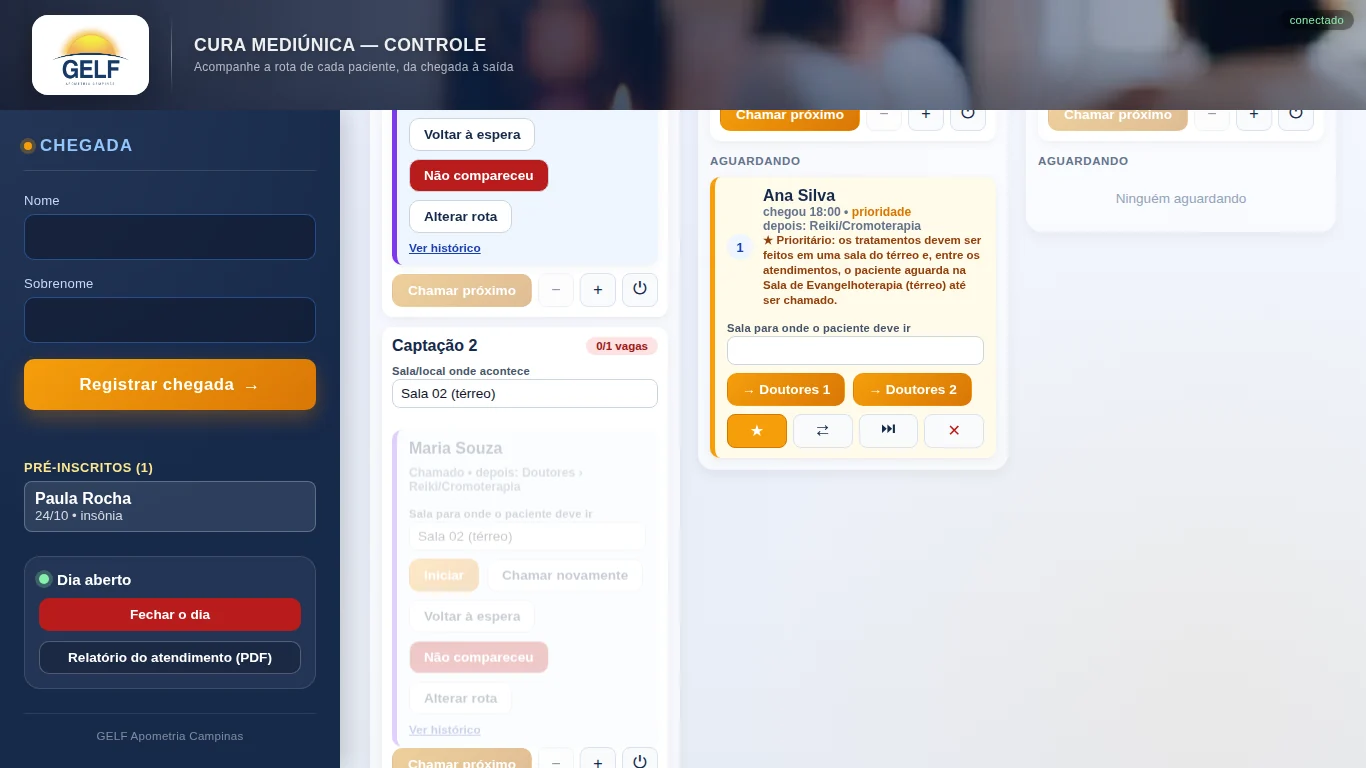
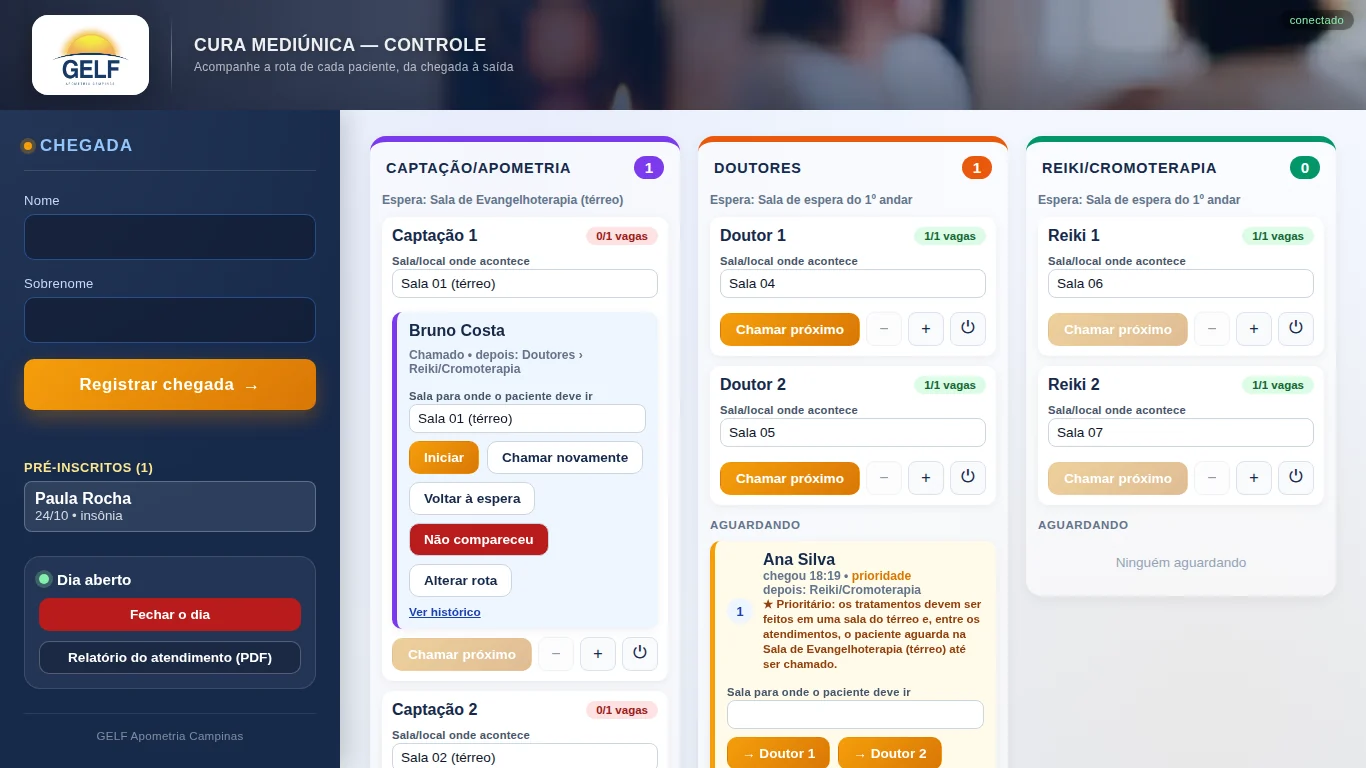
Bio: salas dos Doutores passam a se chamar Doutor 1 e Doutor 2 (singular)
- config/bio.json, documentação, roteiro de validação e capturas atualizados

diff --git a/docs/pacote/2-Roteiro-de-validacao.md b/docs/pacote/2-Roteiro-de-validacao.md
@@ -33,7 +33,7 @@ Cada linha segue um passo do processo oficial.
 | 9 | **Controle:** toque em **Iniciar** | A TV muda para **Em atendimento** (sem som) | | |
 | 10 | **Controle:** toque em **Concluir etapa** | A TV diz *Etapa concluída — aguarde: Sala de espera do 1º andar*. A vaga da sala volta na hora | | |
 | 11 | **Controle:** chame outro paciente para a **Captação 2** e confira que **cada etapa tem duas salas**, atendendo 2 pacientes ao mesmo tempo | Captação 1 e 2 funcionam ao mesmo tempo; o mesmo vale para Doutores e Reiki | | |
-| 12 | **Controle:** na coluna **Doutores**, chame o paciente (**Chamar próximo** em *Doutores 1* ou *Doutores 2*, ou **→ Doutores 1** no cartão para escolher quem entra) | A TV chama para *Doutores 1* (ou *Doutores 2*) | | |
+| 12 | **Controle:** na coluna **Doutores**, chame o paciente (**Chamar próximo** em *Doutor 1* ou *Doutor 2*, ou **→ Doutor 1** no cartão para escolher quem entra) | A TV chama para *Doutor 1* (ou *Doutor 2*) | | |
 | 13 | **Controle:** toque em **Iniciar**, depois em **Prontuário recebido** | O cartão mostra *📋 Prontuário com o paciente* | | |
 | 14 | **Controle:** toque em **Concluir etapa** (a acupuntura, quando indicada, é feita **dentro** do atendimento dos Doutores; não há etapa separada) | O paciente vai direto para a espera do **Reiki/Cromoterapia**; a TV orienta o 1º andar | | |
 | 15 | **Controle:** chame para o **Reiki/Cromoterapia** e toque em **Iniciar** | O cartão lembra que o paciente deve entregar o prontuário; o botão de concluir vira **Concluir e guardar prontuário** | | |
@@ -74,7 +74,7 @@ Cada linha segue um passo do processo oficial.
 
 Responda com o que vê no dia a dia. Pode escrever à vontade.
 
-1. **Etapas e nomes:** os nomes *Captação/Apometria*, *Doutores* e *Reiki/Cromoterapia* estão como vocês falam? As salas (Captação 1 e 2, Doutores 1 e 2, Reiki 1 e 2) estão com os nomes certos?
+1. **Etapas e nomes:** os nomes *Captação/Apometria*, *Doutores* e *Reiki/Cromoterapia* estão como vocês falam? As salas (Captação 1 e 2, Doutor 1 e 2, Reiki 1 e 2) estão com os nomes certos?
 2. **Atendimentos simultâneos:** duas salas por etapa, cada uma com 1 paciente, está certo? Algum dia precisa de mais ou de menos? (O **+** e o **−** de cada sala ajustam na hora.)
 3. **Prontuário:** os doutores pedem prontuário em **todos** os casos ou só às vezes? O botão **Prontuário recebido** deveria ser obrigatório?
 4. **Acupuntura:** hoje ela é feita dentro do atendimento dos Doutores, sem etapa nem sala próprias. Precisa ser registrada de algum modo (por exemplo, uma marca no cartão e no relatório)?
@@ -84,7 +84,7 @@ Responda com o que vê no dia a dia. Pode escrever à vontade.
 8. **Quem faz o quê:** a recepção só cadastra, e o controle chama e conclui. Está de acordo? Quem opera o controle, e em qual aparelho (computador, tablet, celular)?
 9. **Prioridade:** quem decide e quando marcar? A prioridade deve valer em todas as etapas, como está? Deve aparecer na TV?
 10. **O que está faltando:** o que você faz no dia que o sistema ainda não permite? O que sobrou ou atrapalha?
-11. **Locais das salas:** informar o sala/local de cada tratamento na abertura do dia, com a possibilidade de mudar depois, atende? O nome da sala chamada (Doutores 1…) ainda precisa aparecer na TV junto com o local?
+11. **Locais das salas:** informar o sala/local de cada tratamento na abertura do dia, com a possibilidade de mudar depois, atende? O nome da sala chamada (Doutor 1…) ainda precisa aparecer na TV junto com o local?
 12. **Relatório do atendimento (PDF):** traz o que vocês precisam (dados dos pacientes, horários de início e fim, resumo geral)? Falta alguma coluna ou número? Quem guarda o PDF e onde?
 
 ## Como enviar seus comentários

diff --git a/README.md b/README.md
@@ -87,7 +87,7 @@ Fluxo oficial do processo: `docs/fluxos/fluxo-operacional-bio.md` (referência p
 | Relatório | `/bio/relatorio` | Registro completo do dia (pacientes, horários, resumo geral) para salvar em PDF |
 
 - **Rota oficial**: Captação/Apometria › Doutores › Reiki/Cromoterapia. Etapas, salas e capacidades ficam em `config/bio.json`
-  (todas as etapas com 2 salas de 1 vaga, ou seja, 2 atendimentos simultâneos: Captação 1 e 2, Doutores 1 e 2, Reiki 1 e 2).
+  (todas as etapas com 2 salas de 1 vaga, ou seja, 2 atendimentos simultâneos: Captação 1 e 2, Doutor 1 e 2, Reiki 1 e 2).
   A acupuntura faz parte do atendimento dos Doutores (não é etapa nem sala separada; o mecanismo de etapa `opcional` continua disponível por configuração).
   Mudar o fluxo é editar esse arquivo e reiniciar. No dia, as vagas (macas) e salas em uso se ajustam na própria tela.
 - **Relatório do atendimento (PDF)**: `/bio/relatorio` (botão no controle) reúne dados dos pacientes, sala, horários de início e fim de cada tratamento e resumo geral; o PDF sai da janela de impressão do navegador ("Salvar como PDF"). Salve antes de fechar o dia: os nomes são apagados no fechamento.

diff --git a/docs/fluxos/5-bio.md b/docs/fluxos/5-bio.md
@@ -98,7 +98,7 @@ No controle, o prioritário aparece primeiro na fila, com o selo **prioridade**,
 
 ![Controle: prioritário no topo da espera](img/bio-14-prioridade.webp)
 
-Cada coluna tem as suas **duas salas** (ex.: Captação 1 e Captação 2, ou Doutores 1 e Doutores 2), com as vagas (ex.: `1/1 vagas`), e a lista **Aguardando**. Assim, **cada etapa atende 2 pacientes ao mesmo tempo**. Duas formas de chamar:
+Cada coluna tem as suas **duas salas** (ex.: Captação 1 e Captação 2, ou Doutor 1 e Doutor 2), com as vagas (ex.: `1/1 vagas`), e a lista **Aguardando**. Assim, **cada etapa atende 2 pacientes ao mesmo tempo**. Duas formas de chamar:
 
 | Forma | Quando usar |
 |---|---|

diff --git a/docs/fluxos/fluxo-operacional-bio.md b/docs/fluxos/fluxo-operacional-bio.md
@@ -63,7 +63,7 @@ Toda etapa tem **duas salas de 1 vaga**, ou seja, **2 atendimentos simultâneos*
 | Etapa | Salas | Atendimentos simultâneos | Espera |
 |---|---|---|---|
 | Captação/Apometria | Captação 1 e Captação 2 | 2 | Sala de Evangelhoterapia (térreo) |
-| Doutores | Doutores 1 e Doutores 2 | 2 | Sala de espera do 1º andar |
+| Doutores | Doutor 1 e Doutor 2 | 2 | Sala de espera do 1º andar |
 | Reiki/Cromoterapia | Reiki 1 e Reiki 2 | 2 | Sala de espera do 1º andar |
 
 Tudo isso fica em `config/bio.json`.
